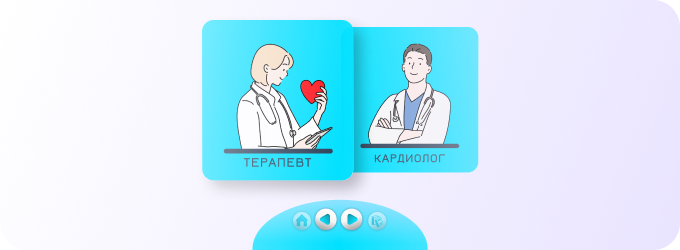
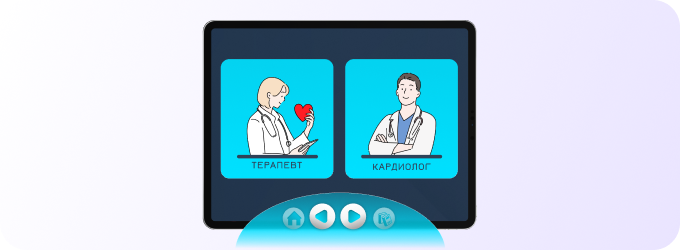
feat(portfolio): PSP CLM slides and slider meta on image
Add five CLM slides for patient support program case, fix 4:3 stage aspect, anchor slide label to image bounds, and add Hydrobalance registration slide.

diff --git a/js/data/portfolio-data.jsx b/js/data/portfolio-data.jsx
@@ -151,6 +151,12 @@ const PORTFOLIO = [
       { src: 'assets/uploads/patient-series-slide-1.png', label: 'Коробка', alt: 'Гидробаланс — дизайн коробки' },
       { src: 'assets/uploads/patient-series-slide-2.png', label: 'Развёртка', alt: 'Гидробаланс — развёртка этикетки' },
       { src: 'assets/uploads/patient-series-slide-3.png', label: 'Туба', alt: 'Гидробаланс — туба 20 таблеток' },
+      {
+        src: 'assets/uploads/patient-series-slide-4.png',
+        label: 'Регистрация',
+        alt: 'ГидроБаланс — свидетельство о государственной регистрации БАД в ЕАЭС',
+        aspect: '1024 / 720',
+      },
     ],
     thumb: 'assets/uploads/patient-series-card-thumb.png',
     thumbLayout: 'wide',
@@ -313,6 +319,34 @@ const PORTFOLIO = [
       { phase: '3–6 мес.', t: 'Платформа и контент' },
       { phase: '6–9 мес.', t: 'Пилот с 200 пациентами' },
       { phase: '9+ мес.',   t: 'Масштабирование и сопровождение' },
+    ],
+    slideAspect: '1024 / 768',
+    slides: [
+      {
+        src: 'assets/uploads/psp-platform-slide-1.png',
+        label: 'Навигация',
+        alt: 'CLM — выбор специальности: терапевт и кардиолог',
+      },
+      {
+        src: 'assets/uploads/psp-platform-slide-2.png',
+        label: 'β1-селективность',
+        alt: 'CLM — кардиоселективность бисопролола, сравнение с другими β-блокаторами',
+      },
+      {
+        src: 'assets/uploads/psp-platform-slide-3.png',
+        label: 'Конкор®',
+        alt: 'CLM — оригинальный бисопролол Конкор®, данные когортного исследования',
+      },
+      {
+        src: 'assets/uploads/psp-platform-slide-4.png',
+        label: 'Механизм',
+        alt: 'CLM — симпатическая гиперактивация, маркеры и механизм действия',
+      },
+      {
+        src: 'assets/uploads/psp-platform-slide-5.png',
+        label: 'Пациенты',
+        alt: 'CLM — профили пациентов с АГ и симпатической гиперактивностью',
+      },
     ],
     related: ['patient-series', 'omni-rebranding', 'ai-trener'],
   },

diff --git a/js/data/i18n-en-portfolio.js b/js/data/i18n-en-portfolio.js
@@ -122,6 +122,12 @@ window.PORTFOLIO_EN_PATCHES = {
       { src: 'assets/uploads/patient-series-slide-1.png', label: 'Box', alt: 'Hydrobalance — box design' },
       { src: 'assets/uploads/patient-series-slide-2.png', label: 'Dieline', alt: 'Hydrobalance — label dieline' },
       { src: 'assets/uploads/patient-series-slide-3.png', label: 'Tube', alt: 'Hydrobalance — tube of 20 tablets' },
+      {
+        src: 'assets/uploads/patient-series-slide-4.png',
+        label: 'Registration',
+        alt: 'Hydrobalance — EAEU state registration certificate for the dietary supplement',
+        aspect: '1024 / 720',
+      },
     ],
     thumbAlt: 'Hydrobalance — tube of 20 effervescent tablets',
   },
@@ -228,6 +234,34 @@ window.PORTFOLIO_EN_PATCHES = {
       { phase: '3–6 mo.', t: 'Platform and content' },
       { phase: '6–9 mo.', t: 'Pilot with 200 patients' },
       { phase: '9+ mo.', t: 'Scale-up and support' },
+    ],
+    slideAspect: '1024 / 768',
+    slides: [
+      {
+        src: 'assets/uploads/psp-platform-slide-1.png',
+        label: 'Navigation',
+        alt: 'CLM — specialty selection: therapist and cardiologist',
+      },
+      {
+        src: 'assets/uploads/psp-platform-slide-2.png',
+        label: 'β1 selectivity',
+        alt: 'CLM — bisoprolol cardioselectivity vs other beta-blockers',
+      },
+      {
+        src: 'assets/uploads/psp-platform-slide-3.png',
+        label: 'Concor®',
+        alt: 'CLM — original bisoprolol Concor®, cohort study data',
+      },
+      {
+        src: 'assets/uploads/psp-platform-slide-4.png',
+        label: 'Mechanism',
+        alt: 'CLM — sympathetic hyperactivation markers and mechanism',
+      },
+      {
+        src: 'assets/uploads/psp-platform-slide-5.png',
+        label: 'Patients',
+        alt: 'CLM — patient profiles with hypertension and sympathetic hyperactivation',
+      },
     ],
   },
 

diff --git a/js/pages/portfolio-pages.jsx b/js/pages/portfolio-pages.jsx
@@ -397,22 +397,24 @@ function ProjectPage({ slug, navigate, lang }) {
                               loading={i === 0 ? 'eager' : 'lazy'}
                               decoding="async"
                             />
+                            {slides.length > 1 ? (
+                              <div className="proj-slider-meta">
+                                <span>{String(i + 1).padStart(2, '0')} / {String(slides.length).padStart(2, '0')}</span>
+                                <span>· {s.label}</span>
+                              </div>
+                            ) : null}
                           </button>
                         )
                         : A ? <A /> : null}
                   </div>);
 
               })}
-              {slides.length > 1 ?
+              {slides.length > 1 ? (
                 <>
-                  <div className="proj-slider-meta">
-                    <span>{String(slide + 1).padStart(2, '0')} / {String(slides.length).padStart(2, '0')}</span>
-                    <span>· {slides[slide].label}</span>
-                  </div>
                   <button className="proj-slider-nav prev" onClick={prev} aria-label={ui ? ui.slidePrev : 'Назад'}>←</button>
                   <button className="proj-slider-nav next" onClick={next} aria-label={ui ? ui.slideNext : 'Вперёд'}>→</button>
-                </> :
-                null}
+                </>
+              ) : null}
             </div>
             {slides.length > 1 ?
               <div className="proj-slider-dots">

diff --git a/css/styles.css b/css/styles.css
@@ -3532,6 +3532,28 @@ body.is-detail-slide-lightbox-open .robot-img {
 .proj-slider-stage--image {
   background: var(--bg-2);
 }
+.proj-slider-stage--image .proj-slide-zoom {
+  position: relative;
+  display: block;
+  width: fit-content;
+  height: fit-content;
+  max-width: 100%;
+  max-height: 100%;
+  margin: auto;
+}
+.proj-slider-stage--image .proj-slide-img {
+  width: auto;
+  height: auto;
+  max-width: 100%;
+  max-height: 100%;
+}
+.proj-slider-stage--image .proj-slide-zoom .proj-slider-meta {
+  position: absolute;
+  left: 12px;
+  bottom: 12px;
+  z-index: 2;
+  pointer-events: none;
+}
 .proj-slide {
   position: absolute; inset: 0;
   display: flex; align-items: center; justify-content: center;
